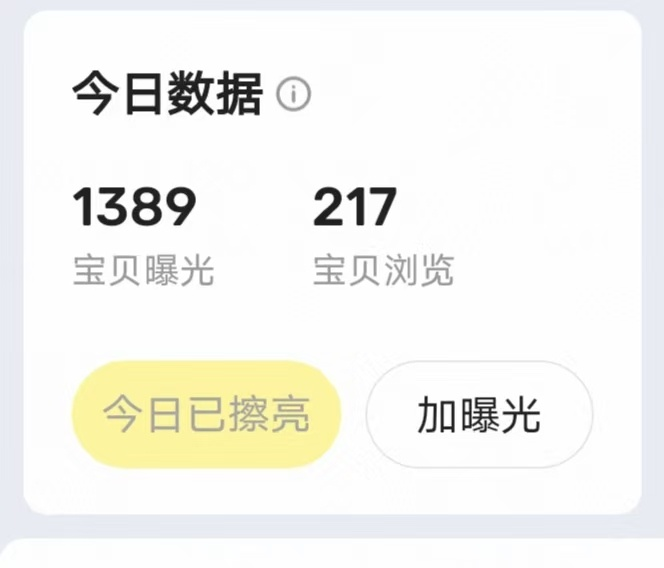
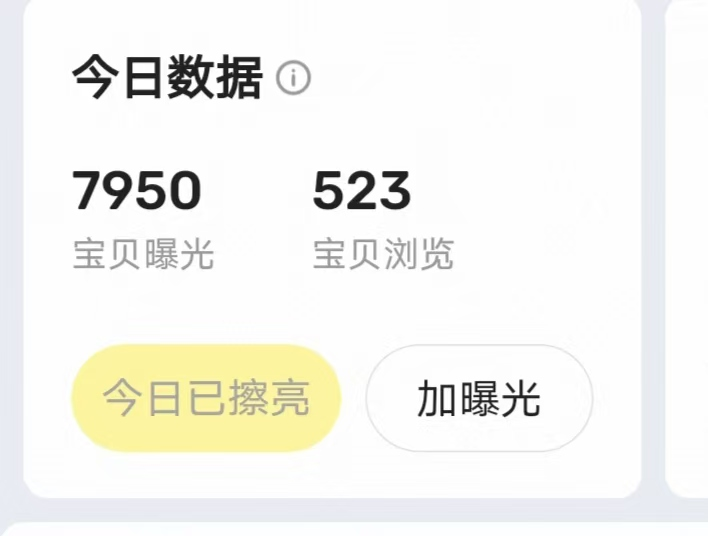
更新闲鱼日曝光量至 8000 并替换闲鱼配图

diff --git a/index.html b/index.html
@@ -334,7 +334,7 @@
         <p class="bio">
           上海理工大学 · 电子信息大类 · 2026 级本科生，已拿下 9 项 AI 技能认证
           （阿里云 6 项 · 科大讯飞 3 项），独立完成 2 款可在线游玩的网页游戏。<br/><br/>
-          把 300 多页官方文件整理成一本「大学信息差手册」，闲鱼账号日曝光 1000+，
+          把 300 多页官方文件整理成一本「大学信息差手册」，闲鱼账号日曝光 8000+，
           帮同学做过大学四年规划，也有家教辅导的真实反馈。<br/><br/>
           信奉「干中学、学中干」——先动手做出一个能跑的东西，再回头补理论。
         </p>
@@ -342,7 +342,7 @@
           <span class="tag">AI // 阿里云 6 · 讯飞 3</span>
           <span class="tag">GAME // 2 款网页游戏</span>
           <span class="tag">INFO // 信息差手册</span>
-          <span class="tag">OPS // 闲鱼日曝光 1000+</span>
+          <span class="tag">OPS // 闲鱼日曝光 8000+</span>
         </div>
       </div>
     </div>
@@ -476,7 +476,7 @@ const PROFILE = {
     { title:"AI 应用", desc:"9 项 AI 认证（阿里云 6 · 讯飞 3），文生文、文生图、文生视频，打磨提示词与产出物。", tag:"AI // 文生文·图·视频", imgs:["assets/svc-ai1.jpg","assets/svc-ai2.jpg","assets/svc-ai3.jpg"] },
     { title:"游戏与网页开发", desc:"原生 JS + Canvas 做出 2 款可玩网页游戏；个人主页、简历、信息差手册也都是独立完成的网页。", tag:"DEV // 游戏 · 网页", imgs:["assets/proj-plane.jpg","assets/proj-tank.jpg"] },
     { title:"信息整理与规划", desc:"把复杂的大学规则整理成大白话手册，也帮同学做过大学四年规划与 PPT 演示。", tag:"INFO // 手册 · 规划", imgs:["assets/svc-ppt.jpg","assets/svc-promo.jpg","assets/proj-handbook.jpg"] },
-    { title:"运营与辅导", desc:"闲鱼账号日曝光 1000+，一对一家教有真实反馈，擅长拆解知识、沟通与成交。", tag:"OPS // 闲鱼 · 家教", imgs:["assets/svc-xianyu.jpg","assets/svc-jiajiao.jpg"] },
+    { title:"运营与辅导", desc:"闲鱼账号日曝光 8000+，一对一家教有真实反馈，擅长拆解知识、沟通与成交。", tag:"OPS // 闲鱼 · 家教", imgs:["assets/svc-xianyu.jpg","assets/svc-jiajiao.jpg"] },
   ],
   experience: [
     { date:"2026 · 至今", title:"帮同学做材料 · PPT 与文档整理", desc:"帮同学做过大学四年规划的 PPT 演示，也常帮忙整理文档、排版资料，把复杂的内容理成清晰的成品。", tags:["PPT // 演示文稿","DOC // 文档整理"] },
